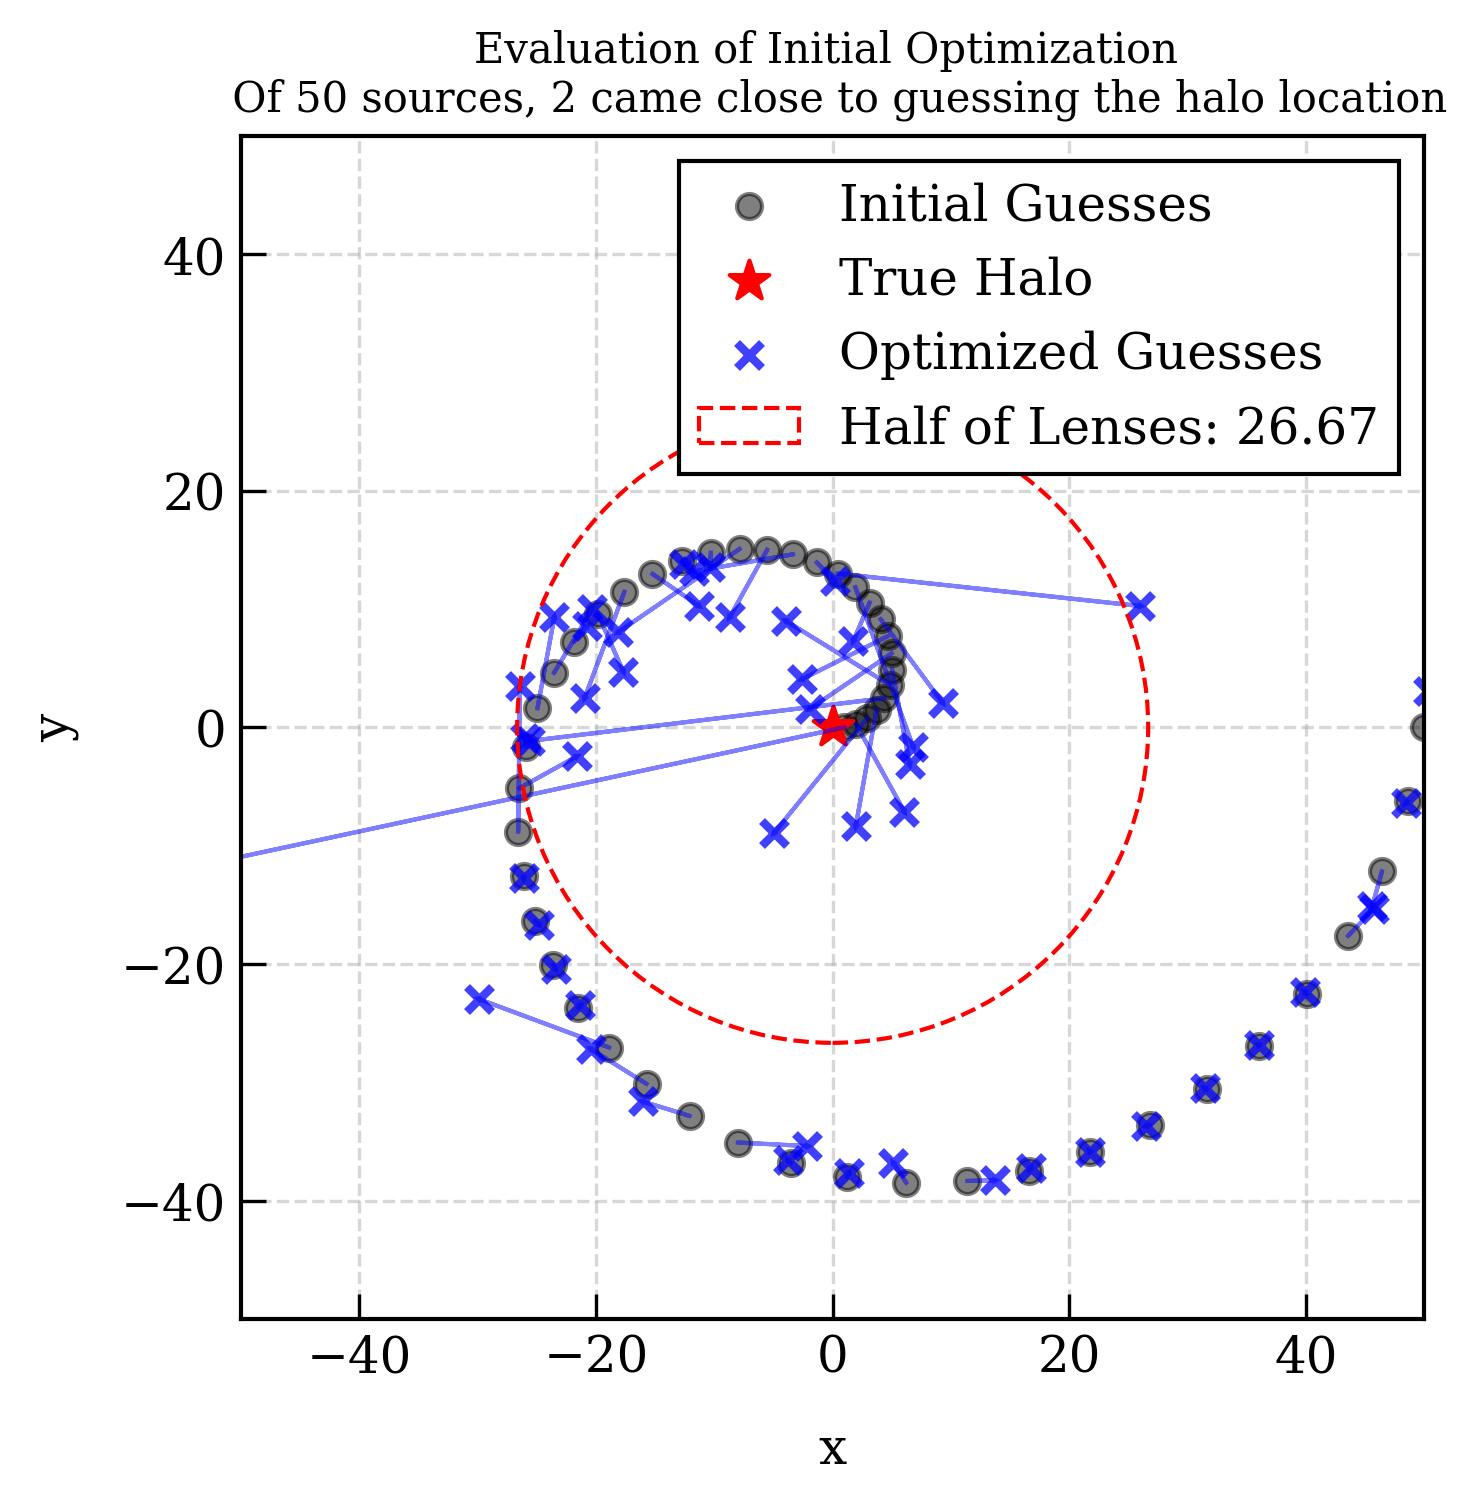
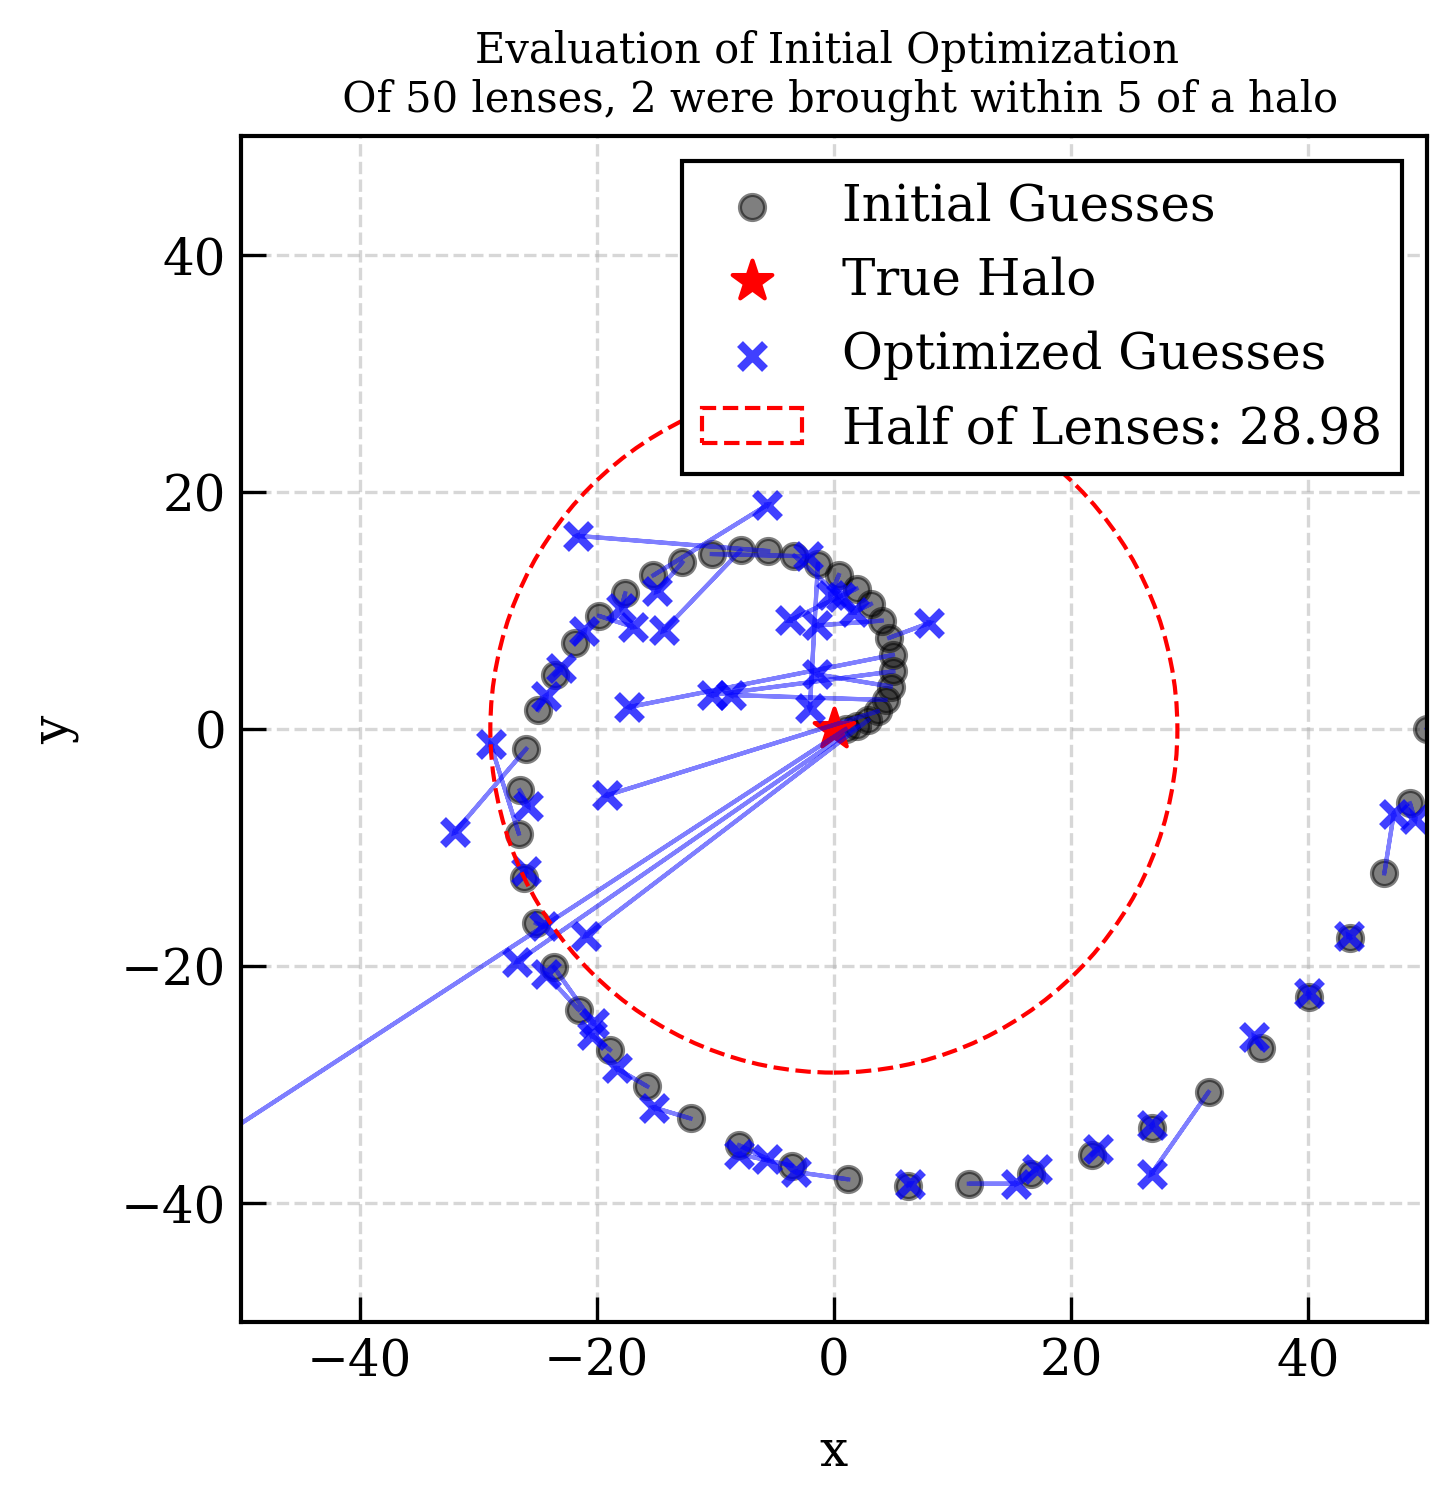
Mapped chi2 space for optimization, identified problems with gradient calculation. Chi2 gradient may be badly behaved.

diff --git a/mdark.py b/mdark.py
@@ -1176,8 +1176,8 @@ def visualize_initial_guesses():
 
     # Create a source object
     sources = pipeline.Source(x, y, 
-                              np.zeros_like(x), np.zeros_like(x), np.zeros_like(x), np.zeros_like(x), np.zeros_like(x), np.zeros_like(x), 
-                              np.ones_like(x) * 0.1, np.ones_like(x) * 0.01, np.ones_like(x) * 0.02)
+                            np.zeros_like(x), np.zeros_like(x), np.zeros_like(x), np.zeros_like(x), np.zeros_like(x), np.zeros_like(x), 
+                            np.ones_like(x) * 0.1, np.ones_like(x) * 0.01, np.ones_like(x) * 0.02)
     sources.apply_noise()
     sources.apply_NFW_lensing(halo)
 
@@ -1266,8 +1266,36 @@ def visualize_initial_optimization():
     sources.apply_noise()
     sources.apply_NFW_lensing(halo)
 
+    
     # Optimize 
     points = lenses.optimize_lens_positions(sources, [True, True, True])
+    '''
+    chi_2_vals = []
+    halo.update_chi2_values(sources, [True, True, True])
+    true_chi2 = halo.chi2
+    chi_2_vals.append(true_chi2[0])
+
+    for i in range(len(points)):
+        current_point = points[i]
+        final_point = current_point[-1]
+        lens = pipeline.Halo(final_point[0], final_point[1], np.zeros_like(final_point[0]), np.zeros_like(final_point[0]), final_point[2], 0.194, np.zeros_like(final_point[0]))
+        lens.calculate_concentration()
+        one_source = pipeline.Source(xs[i], ys[i], 
+                                    np.zeros_like(xs[i]), np.zeros_like(xs[i]), np.zeros_like(xs[i]), np.zeros_like(xs[i]), np.zeros_like(xs[i]), np.zeros_like(xs[i]),
+                                    np.ones_like(xs[i]) * 0.1, np.ones_like(xs[i]) * 0.01, np.ones_like(xs[i]) * 0.02)
+        one_source.apply_NFW_lensing(halo)
+        lens.update_chi2_values(sources, [True, True, True])
+        chi_2_vals.append(lens.chi2[0])
+    
+    print('Chi2 values: ', chi_2_vals)
+    plt.figure()
+    x = np.linspace(0, len(chi_2_vals), len(chi_2_vals))
+    plt.plot(x, chi_2_vals, marker='o')
+    plt.xlabel('Lens Num')
+    plt.ylabel('Chi2 Value')
+    plt.title('Chi2 Value after Optimization')
+    plt.show()
+    '''
     print('Optimization complete...')
     def plot_optimization_path(points, true_value):
         fig = plt.figure()
@@ -1286,7 +1314,7 @@ def visualize_initial_optimization():
         ax.legend()
         plt.show()
     
-    print(points)
+    # print(points)
     # plot_optimization_path(points, [0, 0, np.log10(1e14)])
 
     # Create a plot
@@ -1307,22 +1335,101 @@ def visualize_initial_optimization():
     # This is a rough estimate of the distance at which the optimization stops working
     r = (lenses.x**2 + lenses.y**2)**0.5 
     halo_found = r < 5
-    print('{}% of the sources were correctly identified'.format(np.sum(halo_found) / N * 100))
+    print("{}% of the lenses were brought within 5'' of a halo".format(np.sum(halo_found) / N * 100))
     r = np.sort(r)
     r = r[int(len(r)/2)]
     circle = plt.Circle((0, 0), r, color='red', fill=False, label='Half of Lenses: {:.2f}'.format(r), linestyle='--')
     ax.add_artist(circle)
 
     ax.legend(loc='best')
-    ax.set_title('Evaluation of Initial Optimization \n Of {} sources, {} came close to guessing the halo location'.format(N, np.sum(halo_found)), fontsize=10)
+    ax.set_title('Evaluation of Initial Optimization \n Of {} lenses, {} were brought within 5'' of a halo'.format(N, np.sum(halo_found)), fontsize=10)
     plt.savefig('Images/initial_optimization.png')
     plt.show()
 
 
+def map_chi2_space():
+    # Create a single halo, a set of sources, and place a test lens everywhere in space, getting the chi2 value for each lens. 
+    # Get a sense of how chi2 varies around the halo
+
+    # Create a single halo
+    halo = pipeline.Halo(np.array([0]), np.array([0]), np.array([0]), np.array([5]), np.array([1e14]), 0.194, np.array([0]))
+    halo.calculate_concentration()
+
+    # Create a set of sources
+    xmax = 50
+    N = 100
+    rs = np.sqrt(np.random.random(N)) * xmax  
+    thetas = np.random.random(N) * 2 * np.pi
+    xs = rs * np.cos(thetas)
+    ys = rs * np.sin(thetas)
+
+    sources = pipeline.Source(xs, ys,
+                              np.zeros_like(xs), np.zeros_like(xs), np.zeros_like(xs), np.zeros_like(xs), np.zeros_like(xs), np.zeros_like(xs),
+                                np.ones_like(xs) * 0.1, np.ones_like(xs) * 0.01, np.ones_like(xs) * 0.02)
+    sources.apply_noise()
+    sources.apply_NFW_lensing(halo)
+    sources.filter_sources(xmax)
+
+    xgrid = np.linspace(-xmax, xmax, 2*xmax)
+    ygrid = np.linspace(-xmax, xmax, 2*xmax)
+
+    chi2_values = np.zeros((len(xgrid), len(ygrid)))
+    for i in range(len(xgrid)):
+        for j in range(len(ygrid)):
+            lens = pipeline.Halo(np.array([xgrid[i]]), np.array([ygrid[j]]), np.array([0]), np.array([5]), np.array([1e14]), 0.194, np.array([0]))
+            lens.calculate_concentration()
+            lens.update_chi2_values(sources, [True, True, True])
+            chi2_values[i, j] = lens.chi2[0]
+
+    # Pick one lens, optimize it, and plot the trail across our chi2 space
+    xl = 0
+    yl = 0
+    mass = 1e14
+    test_lens = pipeline.Halo(np.array([xl]), np.array([yl]), np.array([0]), np.array([5]), np.array([mass]), 0.194, np.array([0]))
+    test_lens.calculate_concentration()
+    test_lens.update_chi2_values(sources, [True, True, True])
+    trail = test_lens.optimize_lens_positions(sources, [True, True, True])
+
+    # Get the gradient of the chi2 values (numerically)
+    grad_x, grad_y = np.gradient(chi2_values)
+    # Create a plot out of this
+    
+    # Plot the chi2 values
+    fig, ax = plt.subplots(1, 3, figsize=(5, 5))
+    fig.suptitle('Chi2 Space (All logarithmic)')
+
+    ax[0].imshow(np.log(chi2_values), extent=(-xmax, xmax, -xmax, xmax), origin='lower', cmap='viridis')
+    ax[0].scatter(halo.x, halo.y, color='red', label='True Halo', marker='*', s=100)
+    for i in range(len(trail)):
+        points = trail[i]
+        x = points[0]
+        y = points[1]
+        ax[0].scatter(x, y, color='yellow', alpha=0.5)
+    ax[0].set_xlabel('x')
+    ax[0].set_ylabel('y')
+    ax[0].set_title('Chi2 Values for Test Lenses')
+    
+    # Plot the gradient
+    ax[1].imshow(np.log(np.abs(grad_x))*np.sign(grad_x), extent=(-xmax, xmax, -xmax, xmax), origin='lower', cmap='viridis')
+    ax[1].scatter(halo.x, halo.y, color='red', label='True Halo', marker='*', s=100)
+    ax[1].set_xlabel('x')
+    ax[1].set_ylabel('y')
+    ax[1].set_title('Gradient of Chi2 Values (x)')
+
+    ax[2].imshow(np.log(np.abs(grad_y))*np.sign(grad_y), extent=(-xmax, xmax, -xmax, xmax), origin='lower', cmap='viridis')
+    ax[2].scatter(halo.x, halo.y, color='red', label='True Halo', marker='*', s=100)
+    ax[2].set_xlabel('x')
+    ax[2].set_ylabel('y')
+    ax[2].set_title('Gradient of Chi2 Values (y)')
+
+    # plt.tight_layout()
+    plt.savefig('Images/chi2_space.png')
+    plt.show()
 
 if __name__ == '__main__':
+    map_chi2_space()
     # visualize_initial_guesses()
-    visualize_initial_optimization()
+    # visualize_initial_optimization()
     # raise ValueError('This script is not meant to be run as a standalone script')
     
     # visualize_fits('Data/MDARK_Test/Test15/ID_file_15.csv')

diff --git a/pipeline.py b/pipeline.py
@@ -418,7 +418,7 @@ class Halo:
         learning_rate = 1e-1
         # learning_rates = [0.01, 0.01, 0.01]
         momentum = 0.9
-        num_iterations = 100
+        num_iterations = 1000
         for i in range(len(self.x)):
             one_source = Source(sources.x[i], sources.y[i], 
                                 sources.e1[i], sources.e2[i], 
@@ -429,16 +429,14 @@ class Halo:
             params = [one_source, use_flags, self.concentration[i], self.redshift]
             #guess = [self.x[i], self.y[i]] # Try without mass 
             #params = [one_source, use_flags, self.concentration[i], self.redshift, self.mass[i]]
-            result, points = minimizer.gradient_descent(chi2wrapper3, guess, learning_rate, num_iterations, momentum, params)
-            if i == 5:
-                first_points = points
+            result, trail = minimizer.gradient_descent(chi2wrapper3, guess, learning_rate, num_iterations, momentum, params)
             # result = minimizer.gradient_descent_3d_with_momentum(chi2wrapper3, guess, learning_rate, num_iterations, momentum, params)
             #result = minimizer.adam_optimizer(chi2wrapper3, guess, params)
             self.x[i], self.y[i], self.mass[i] = result[0], result[1], 10**result[2] # Optimize the mass in log space, then convert back to linear space
             #self.x[i], self.y[i] = result[0], result[1]
             # Now update the concentrations
             self.calculate_concentration()
-        return first_points
+        return trail
         '''
         max_attempts = 1
         for i in range(len(self.x)):
@@ -447,14 +445,14 @@ class Halo:
                                 sources.f1[i], sources.f2[i], 
                                 sources.g1[i], sources.g2[i],
                                 sources.sigs[i], sources.sigf[i], sources.sigg[i])
-            guess = [self.x[i], self.y[i], max(0, self.mass[i])] # Class is already initialized with initial guesses
+            guess = [self.x[i], self.y[i], max(0, np.log10(self.mass[i]))] # Class is already initialized with initial guesses
             best_result = None
             best_params = guess
             for _ in range(max_attempts):
                 # Lets try a BFGS method, to avoid getting stuck in local minima
                 result = opt.minimize(
                     chi2wrapper3, guess, args=([one_source, use_flags, self.concentration[i], self.redshift]), 
-                    method='Nelder-Mead',
+                    method='BFGS',
                     tol=1e-8, 
                     options={'maxiter': 1000}
                 )
@@ -462,8 +460,8 @@ class Halo:
                 if best_result is None or result.fun < best_result.fun:
                     best_result = result
                     best_params = result.x
-
-            '''
+        '''
+            
 
 
     def filter_lens_positions(self, sources, xmax, threshold_distance=0.5):
@@ -707,45 +705,8 @@ def assign_lens_chi2_values(lenses, sources, use_flags):
 
 def assign_halo_chi2_values(lenses, sources, use_flags):
     # Given a single lens object, assign a weighted chi2 value based on source distances
-    xl = lenses.x
-    yl = lenses.y
-    assert len(xl) == len(yl), "The x and y arrays must have the same length."
-    assert xl.ndim == yl.ndim == 1, "The x and y arrays must be 1D."
-    assert len(xl) == 1, "Only one lens is allowed."
 
-    xs = sources.x
-    ys = sources.y
-
-    r = np.sqrt((xl[:, None] - xs)**2 + (yl[:, None] - ys)**2)
-    # Calculate distances from the current lens to all sources
-    distances = np.sqrt((xl - xs)**2 + (yl - ys)**2)
-    
-    # Sort distances
-    sorted_distances = np.sort(distances)
-    
-    # Find the index at which 1/4 of the sources are within this distance
-    index = int(len(sorted_distances) * (0.4))
-    
-    # Set r0 as the distance at the calculated index
-    r0 = sorted_distances[index]
-
-    weights = np.exp(-r**2 / r0**2)
-    # Check if there are any nan values in the weights - if so, set them to 0 (also figure out why this is happening)
-    if np.isnan(weights).any():
-        print(lenses.x, lenses.y)
-        weights = np.nan_to_num(weights, nan=0.0)
-        assert not np.isnan(weights).any(), "There are still nan values in the weights"
-
-    # Normalize the weights
-    if np.sum(weights, axis=1).any() == 0:
-        weights = np.ones_like(weights)
-        print('Weights sum to zero')
-    else:
-        weights /= np.sum(weights, axis=1)[:, None]
-        assert np.allclose(np.sum(weights, axis=1), 1), "Weights must sum to 1 - they sum to {}".format(np.sum(weights, axis=1))
-    
-    assert weights.shape == (len(xl), len(xs)), "Weights must have shape (len(xl), len(xs))."
-
+    weights = utils.compute_source_weights(lenses, sources)    
     # Unpack flags for clarity
     use_shear, use_flexion, use_g_flexion = use_flags
 
@@ -763,11 +724,14 @@ def assign_halo_chi2_values(lenses, sources, use_flags):
     # Weigh the chi^2 values by the distance of each source from each lens
     total_chi_squared = 0
     for i in range(len(source_clone.x)):
-        # Get the chi2 values for each source, weighted by the source-lens distance
+        # Calculate chi2 for each component
         shear_chi2 = ((sources.e1[i] - source_clone.e1[i]) / sources.sigs[i])**2 + ((sources.e2[i] - source_clone.e2[i]) / sources.sigs[i])**2
         flexion_chi2 = ((sources.f1[i] - source_clone.f1[i]) / sources.sigf[i])**2 + ((sources.f2[i] - source_clone.f2[i]) / sources.sigf[i])**2
         g_flexion_chi2 = ((sources.g1[i] - source_clone.g1[i]) / sources.sigg[i])**2 + ((sources.g2[i] - source_clone.g2[i]) / sources.sigg[i])**2
-        total_chi_squared += weights[:, i].dot(shear_chi2*use_shear + flexion_chi2*use_flexion + g_flexion_chi2*use_g_flexion)
+        
+        # Ensure correct shape for weights
+        chi2_sum = shear_chi2 * use_shear + flexion_chi2 * use_flexion + g_flexion_chi2 * use_g_flexion
+        total_chi_squared += weights[:, i].dot(chi2_sum)
 
     return total_chi_squared[0]
 

diff --git a/utils.py b/utils.py
@@ -56,6 +56,48 @@ def create_gaussian_kernel(stamp_size, sigma):
     gaussian = np.exp(-((xp / sigma) ** 2 + (yp / sigma) ** 2) / 2)
     return gaussian / np.sum(gaussian)
 
+# ------------------------
+# Chi-Squared Utility Functions
+# ------------------------
+
+def compute_source_weights(lenses, sources, r_frac = 0.4):
+    # Calculate gaussian weights for each lens-source pair based on the distance between them
+
+    xl, yl = lenses.x, lenses.y
+    xs, ys = sources.x, sources.y
+
+    r = np.sqrt((xl[:, None] - xs)**2 + (yl[:, None] - ys)**2)
+    # Calculate distances from the current lens to all sources
+    distances = np.sqrt((xl - xs)**2 + (yl - ys)**2)
+    
+    # Sort distances
+    sorted_distances = np.sort(distances)
+    
+    # Find the index at which 1/4 of the sources are within this distance
+    index = int(len(sorted_distances) * (r_frac))
+    
+    # Set r0 as the distance at the calculated index
+    r0 = sorted_distances[index]
+    
+    weights = np.exp(-r**2 / r0**2)
+    # Check if there are any nan values in the weights - if so, set them to 0 (also figure out why this is happening)
+    if np.isnan(weights).any():
+        print(lenses.x, lenses.y)
+        weights = np.nan_to_num(weights, nan=0.0)
+        assert not np.isnan(weights).any(), "There are still nan values in the weights"
+
+    # Normalize the weights
+    if np.sum(weights, axis=1).any() == 0:
+        weights = np.ones_like(weights)
+        print('Weights sum to zero')
+    else:
+        weights /= np.sum(weights, axis=1)[:, None]
+        assert np.allclose(np.sum(weights, axis=1), 1), "Weights must sum to 1 - they sum to {}".format(np.sum(weights, axis=1))
+    
+    assert weights.shape == (len(xl), len(xs)), "Weights must have shape (len(xl), len(xs))."
+
+    return weights
+
 
 # ------------------------
 # Lensing Utility Functions

diff --git a/minimizer.py b/minimizer.py
@@ -1,6 +1,6 @@
 import numpy as np
 
-def numerical_gradient(func, x, params, epsilon=1e-6):
+def numerical_gradient(func, x, params, epsilon=1e-2):
     x = np.asarray(x, dtype=float)  # Ensure x is a NumPy array
     grad = np.zeros_like(x)
     for i in range(len(x)):
